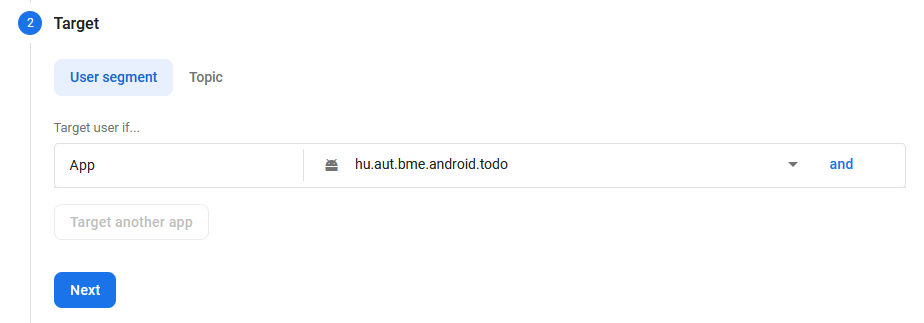
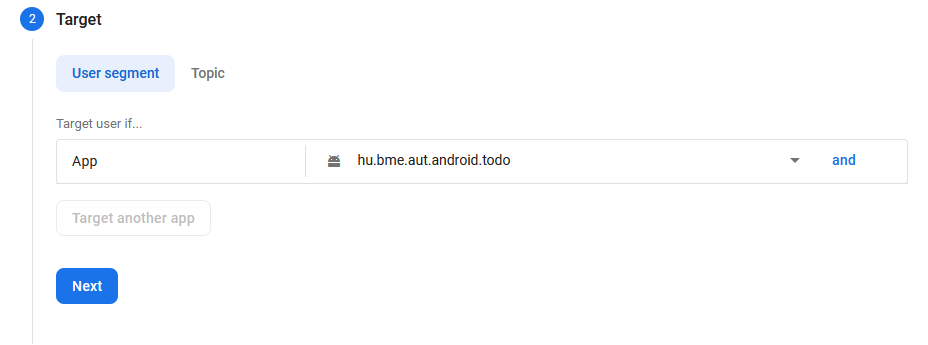
Firebase labor bugfix (missing todo description) + minor formatting

diff --git a/docs/laborok/firebase/index.md b/docs/laborok/firebase/index.md
@@ -71,7 +71,8 @@ Első lépésként létre kell hozni egy Firebase projektet a Firebase admin fel
 - A projekt neve legyen *BMETodoNEPTUN_KOD*, ahol a `NEPTUN_KOD` helyére a saját Neptun kódunkat helyettesítsük!
 - Az analitikát most még nem szükséges konfigurálni.
 
->A Neptun kódra azért van szükség, mert ugyanazon laborgép kulcsával ugyanolyan nevű projektet nem hozhatunk létre többször, és több laborcsoport lévén ebből probléma adódhatna. Ugyanerre lesz majd szükség a package név esetén is.
+!!!danger "projekt név"
+	A Neptun kódra azért van szükség, mert ugyanazon laborgép kulcsával ugyanolyan nevű projektet nem hozhatunk létre többször, és több laborcsoport lévén ebből probléma adódhatna. Ugyanerre lesz majd szükség a package név esetén is.
 
 Sikeres projekt létrehozás után fussák át a laborvezetővel közösen a Firebase console felületét az alábbi elemekre kitérve:
 - Authentication, Firestore és Storage.
@@ -93,9 +94,10 @@ A *Firebase Assistant* akkor fogja megtalálni a Firebase console-on létrehozot
 Válasszuk az *Assistant*-ban az *Authentication* szakaszt és azon belül az *Authenticate using a custom authentication system [KOTLIN]*-t, majd a *Connect to Firebase* gombot.
 Ezt követően egy dialog nyílik meg, ahol ha megfelelőek az accountok, a második szakaszt (*Choose an existing Firebase or Google project*) választva kiválaszthatjuk a projektet, amit a Firebase console-on már létrehoztunk. Itt egyébként lehetőség van új projektet is létrehozni. (Ha elsőre hibát látunk a projekttel való összekapcsolásnál, próbáljuk újra, másodszorra általában sikeresen megtörténik az Android Studio projekt szinkronizálása a Firebase projekttel.)
 
-A háttérben valójában annyi történik, hogy az alkalmazásunk package neve és az aláíró kulcs *SHA-1 hash-e* alapján hozzáadódik egy Android alkalmazás a Firebase console-on lévő projektünkhöz, és az ahhoz tartozó konfigurációs (`google-services.json`) fájl letöltődik a projektünk könyvtárába az alapértelmezett (`app`) modul alá.
+!!!info ""
+	A háttérben valójában annyi történik, hogy az alkalmazásunk package neve és az aláíró kulcs *SHA-1 hash-e* alapján hozzáadódik egy Android alkalmazás a Firebase console-on lévő projektünkhöz, és az ahhoz tartozó konfigurációs (`google-services.json`) fájl letöltődik a projektünk könyvtárába az alapértelmezett (`app`) modul alá.
 
-Ezt a lépéssorozatot manuálisan is végrehajthatjuk a Firebase console-on az *Add Firebase to your Android app*-et választva. A debug kulcs *SHA-1* lenyomata ilyenkor a jobb oldalon található Gradle fülön a *Gradle -> [projektnév] -> Tasks -> android -> signingReport* taskot futtatva kinyerhető alul az *execution/text* módot választva.
+	Ezt a lépéssorozatot manuálisan is végrehajthatjuk a Firebase console-on az *Add Firebase to your Android app*-et választva. A debug kulcs *SHA-1* lenyomata ilyenkor a jobb oldalon található Gradle fülön a *Gradle -> [projektnév] -> Tasks -> android -> signingReport* taskot futtatva kinyerhető alul az *execution/text* módot választva.
 
 <p align="center">
 <img src="./assets/android_studio_signingreport.png">
@@ -134,11 +136,11 @@ Ahhoz, hogy az e-mail alapú regisztráció és authentikáció megfelelően mű
 Készítsük el a megfelelő `Service` osztályt. Hozzunk létre a `data/auth` package-en belül a `FirebaseAuthService` osztályt! Valósítsuk meg az `AuthService` interfész egyes metódusait! Ehhez szükségünk lesz egy `FirebaseAuth` objektumra, melyet külső forrásból fogunk megkapni:
 
 ```kotlin
-package hu.aut.bme.android.todo.data.auth  
+package hu.bme.aut.android.todo.data.auth  
   
 import com.google.firebase.auth.FirebaseAuth  
 import com.google.firebase.auth.UserProfileChangeRequest  
-import hu.aut.bme.android.todo.domain.model.User  
+import hu.bme.aut.android.todo.domain.model.User  
 import kotlinx.coroutines.channels.awaitClose  
 import kotlinx.coroutines.flow.Flow  
 import kotlinx.coroutines.flow.callbackFlow  
@@ -208,14 +210,14 @@ A `suspendCoroutine` metódus le fogja futtatni a benne megadott blokkot, majd a
 Állítsuk át az alkalmazásunkat, hogy ezt az új `FirebaseAuthService`-t használja! Ehhez módosítsuk a `TodoApplication` osztályunkat:
 
 ```kotlin
-package hu.aut.bme.android.todo  
+package hu.bme.aut.bme.android.todo  
   
 import android.app.Application  
 import com.google.firebase.auth.FirebaseAuth  
-import hu.aut.bme.android.todo.data.auth.AuthService  
-import hu.aut.bme.android.todo.data.auth.FirebaseAuthService  
-import hu.aut.bme.android.todo.data.todos.MemoryTodoService  
-import hu.aut.bme.android.todo.data.todos.TodoService
+import hu.bme.aut.android.todo.data.auth.AuthService  
+import hu.bme.aut.android.todo.data.auth.FirebaseAuthService  
+import hu.bme.aut.android.todo.data.todos.MemoryTodoService  
+import hu.bme.aut.android.todo.data.todos.TodoService
 
 class TodoApplication : Application(){
     override fun onCreate() {
@@ -258,12 +260,12 @@ Hozzuk létre a `todos` package-en belül a `firebase` package-et. Ebben két os
 
 Hozzuk először létre az adatot reprezentáló osztályt `FirebaseTodo` néven:
 ```kotlin
-package hu.aut.bme.android.todo.data.todos.firebase
+package hu.bme.aut.android.todo.data.todos.firebase
 
 import com.google.firebase.Timestamp
 import com.google.firebase.firestore.DocumentId
-import hu.aut.bme.android.todo.domain.model.Priority
-import hu.aut.bme.android.todo.domain.model.Todo
+import hu.bme.aut.android.todo.domain.model.Priority
+import hu.bme.aut.android.todo.domain.model.Todo
 import kotlinx.datetime.*
 import java.time.Instant
 import java.time.LocalDateTime
@@ -279,36 +281,37 @@ data class FirebaseTodo(
 )
 
 fun FirebaseTodo.asTodo() = Todo(
-    id,
-    title,
-    priority,
-    LocalDateTime
+    id = id,
+    title = title,
+    priority = priority,
+    dueDate = LocalDateTime
         .ofInstant(Instant.ofEpochSecond(dueDate.seconds), ZoneId.systemDefault())
         .toKotlinLocalDateTime()
         .date,
-    description,
+    description = description,
 )
 
 fun Todo.asFirebaseTodo() = FirebaseTodo(
-    id,
-    title,
-    priority,
-    Timestamp(Date.from(dueDate.atStartOfDayIn(TimeZone.currentSystemDefault()).toJavaInstant()))
+    id = id,
+    title = title,
+    priority = priority,
+    dueDate = Timestamp(Date.from(dueDate.atStartOfDayIn(TimeZone.currentSystemDefault()).toJavaInstant())),
+    description = description,
 )
 ```
 Ebben a fájlban definiáltuk a két átalakító függvényt is, mellyel a Firebase és az alkalmazás többi részében használt Todo osztály között tudunk átalakítani. Az egyedüli bonyolult rész a Firebase által használt `Timestamp` osztály használata az időpont eltárolására, erre most részletesen nem térünk ki.
 
 Hozzuk létre a feladatok tárolását végző `FirebaseTodoService` osztályt is ebben a package-ben:
 ```kotlin
-package hu.aut.bme.android.todo.data.todos.firebase
+package hu.bme.aut.android.todo.data.todos.firebase
 
 import com.google.firebase.firestore.FirebaseFirestore
 import com.google.firebase.firestore.ktx.snapshots
 import com.google.firebase.firestore.ktx.toObjects
 import com.google.firebase.firestore.ktx.toObject
-import hu.aut.bme.android.todo.data.auth.AuthService
-import hu.aut.bme.android.todo.data.todos.TodoService
-import hu.aut.bme.android.todo.domain.model.Todo
+import hu.bme.aut.android.todo.data.auth.AuthService
+import hu.bme.aut.android.todo.data.todos.TodoService
+import hu.bme.aut.android.todo.domain.model.Todo
 import kotlinx.coroutines.flow.*
 import kotlinx.coroutines.tasks.await
 
@@ -365,15 +368,15 @@ class FirebaseTodoService(
 Végül ne felejtsük el befrissíteni a `TodoApplication` osztályunkat, hogy a Firestoreban tárolt feladatokat használja az alkalmazás:
 
 ```kotlin
-package hu.aut.bme.android.todo
+package hu.bme.aut.android.todo
 
 import android.app.Application
 import com.google.firebase.auth.FirebaseAuth
 import com.google.firebase.firestore.FirebaseFirestore
-import hu.aut.bme.android.todo.data.auth.AuthService
-import hu.aut.bme.android.todo.data.auth.FirebaseAuthService
-import hu.aut.bme.android.todo.data.todos.TodoService
-import hu.aut.bme.android.todo.data.todos.firebase.FirebaseTodoService
+import hu.bme.aut.android.todo.data.auth.AuthService
+import hu.bme.aut.android.todo.data.auth.FirebaseAuthService
+import hu.bme.aut.android.todo.data.todos.TodoService
+import hu.bme.aut.android.todo.data.todos.firebase.FirebaseTodoService
 
 class TodoApplication : Application(){
     override fun onCreate() {
